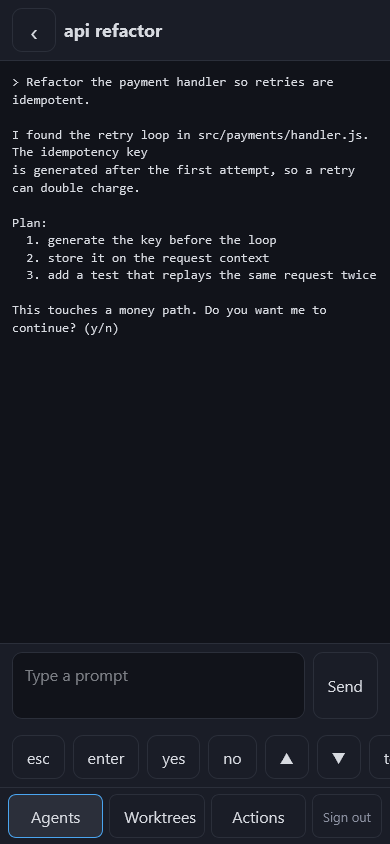
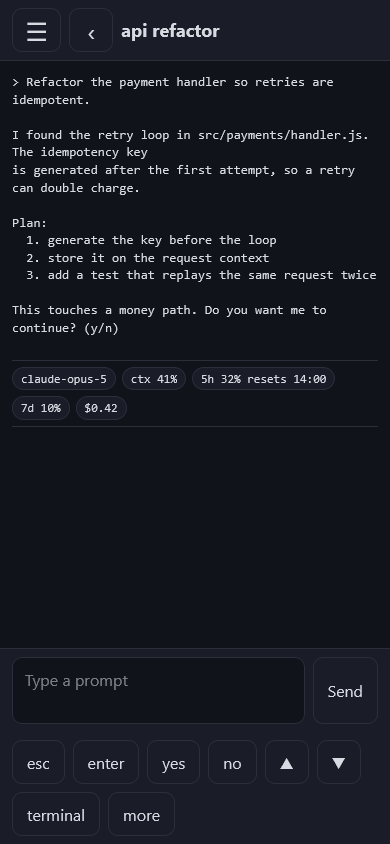
docs: screenshots without the old tab bar
The committed ones still showed the bottom tab bar this branch removed.
Retaken from the fixture at 390x844, plus menu row and layout tree.

diff --git a/README.md b/README.md
@@ -9,7 +9,7 @@ It is one Node process with no dependencies. It shells out to the `herdr` CLI th
 already on the machine, so it never talks to the Herdr server socket directly and never
 needs an API key.
 
-![Agents, blocked first](docs/main/screenshots/home.png) ![One agent with transcript and keys](docs/main/screenshots/agent.png) ![Terminal view with colour](docs/main/screenshots/terminal.png)
+![Agents, blocked first](docs/main/screenshots/home.png) ![One agent with transcript and keys](docs/main/screenshots/agent.png) ![Terminal view with colour](docs/main/screenshots/terminal.png) ![Menu row](docs/main/screenshots/menu.png) ![Layout tree](docs/main/screenshots/layout.png)
 
 ## What it can do
 
